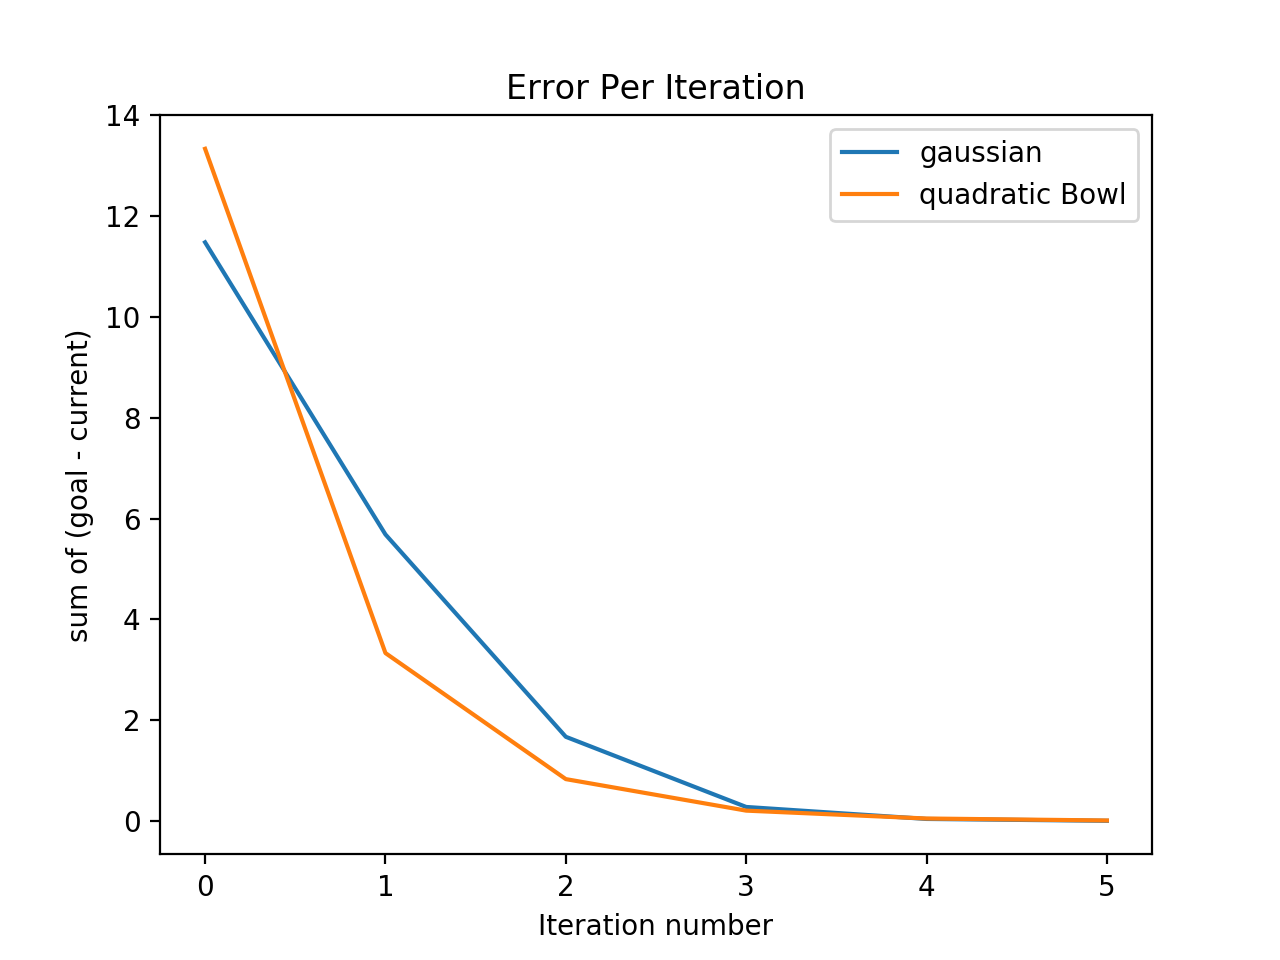
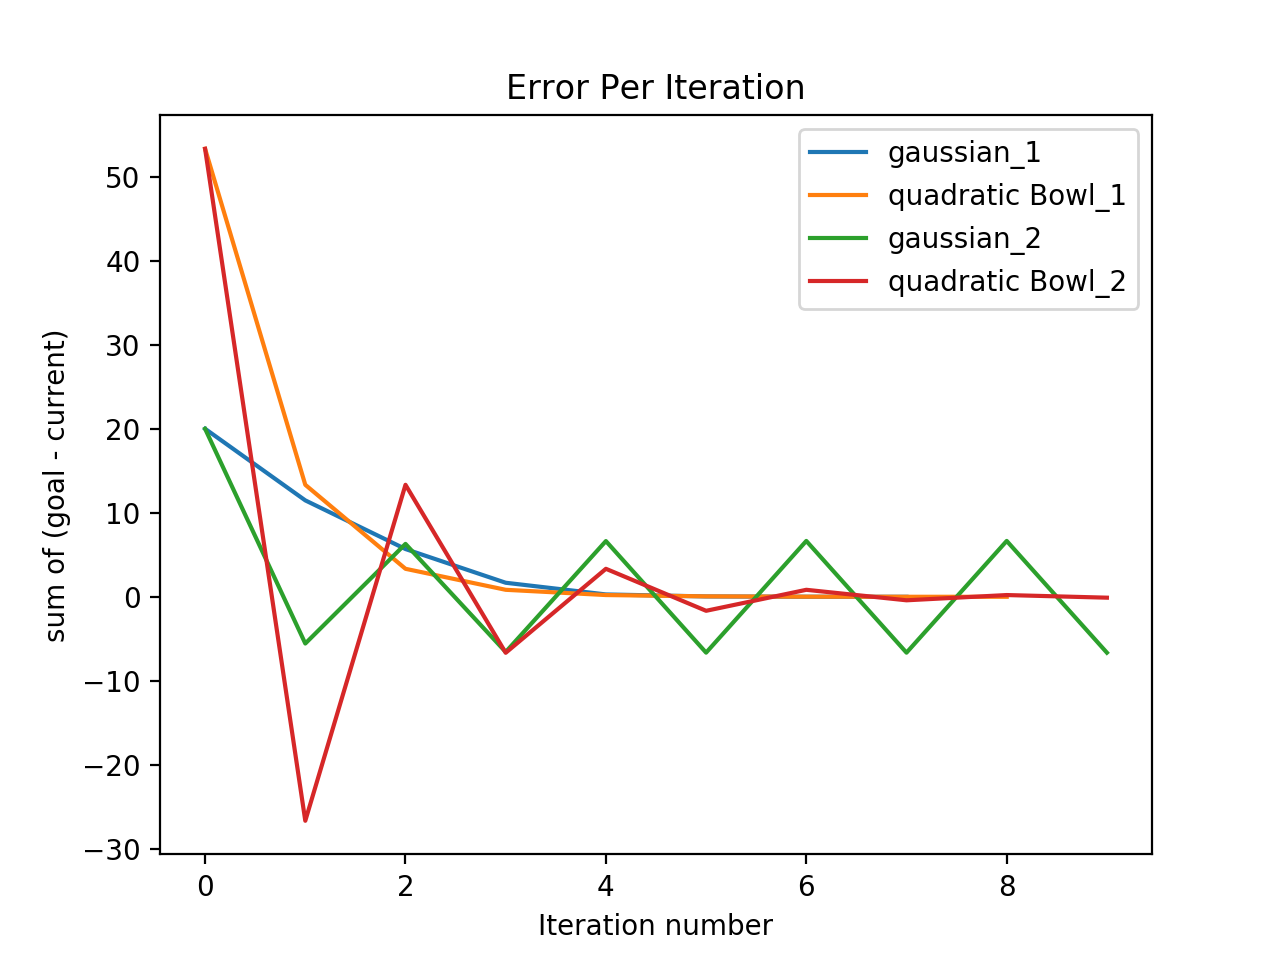
added image

diff --git a/P1/gradDescent.py b/P1/gradDescent.py
@@ -9,13 +9,13 @@ def gradDescent(n, dg, step_size, threshold, num_iterations, theta = None, goal 
         theta = np.zeros(n)
     errors = []
     for i in range(num_iterations):
+        if goal is not None:
+            error = (goal-theta).sum()
+            errors.append(error)
         new_theta = theta - step_size * dg(theta)
         if np.linalg.norm(new_theta - theta) < threshold:
             return theta, errors
         theta = new_theta
-        if goal is not None:
-            error = (goal-theta).sum()
-            errors.append(error)
     return theta, errors
 
 def d_quadraticBowl(x):
@@ -43,23 +43,27 @@ def gradientApprox(f, x, d):
 mu, S, A, b = lp.getData()
 n = len(mu)
 
-## part 1
-# print(mu)
-# print(S)
-# print(A)
-# print(b)
-# n = len(mu)
-# a, errors_a = gradDescent(n, d_gaussian, 100, 0.01, 20, goal=mu)
-# b, errors_b = gradDescent(n, d_quadraticBowl, 0.05, 0.01, 20, goal=np.matmul(np.linalg.inv(A), b))
-#
-#
-# plt.plot(errors_a, label="gaussian")
-# plt.plot(errors_b, label="quadratic Bowl")
-# plt.ylabel("sum of (goal - current)")
-# plt.xlabel("Iteration number")
-# plt.title("Error Per Iteration")
-# plt.legend()
-# plt.show("hold")
+# part 1
+print(mu)
+print(S)
+print(A)
+print(b)
+n = len(mu)
+_, errors_a_1 = gradDescent(n, d_gaussian, 100, 0.001, 10, goal=mu)
+_, errors_b_1 = gradDescent(n, d_quadraticBowl, 0.05, 0.001, 10, goal=np.matmul(np.linalg.inv(A), b))
+
+_, errors_a_2 = gradDescent(n, d_gaussian, 300, 0.001, 10, goal=mu)
+_, errors_b_2 = gradDescent(n, d_quadraticBowl, 0.10, 0.001, 10, goal=np.matmul(np.linalg.inv(A), b))
+
+plt.plot(errors_a_1, label="gaussian_1")
+plt.plot(errors_b_1, label="quadratic Bowl_1")
+plt.plot(errors_a_2, label="gaussian_2")
+plt.plot(errors_b_2, label="quadratic Bowl_2")
+plt.ylabel("sum of (goal - current)")
+plt.xlabel("Iteration number")
+plt.title("Error Per Iteration")
+plt.legend()
+plt.show("hold")
 
 ## part 2
 # d = 0.000000000001
